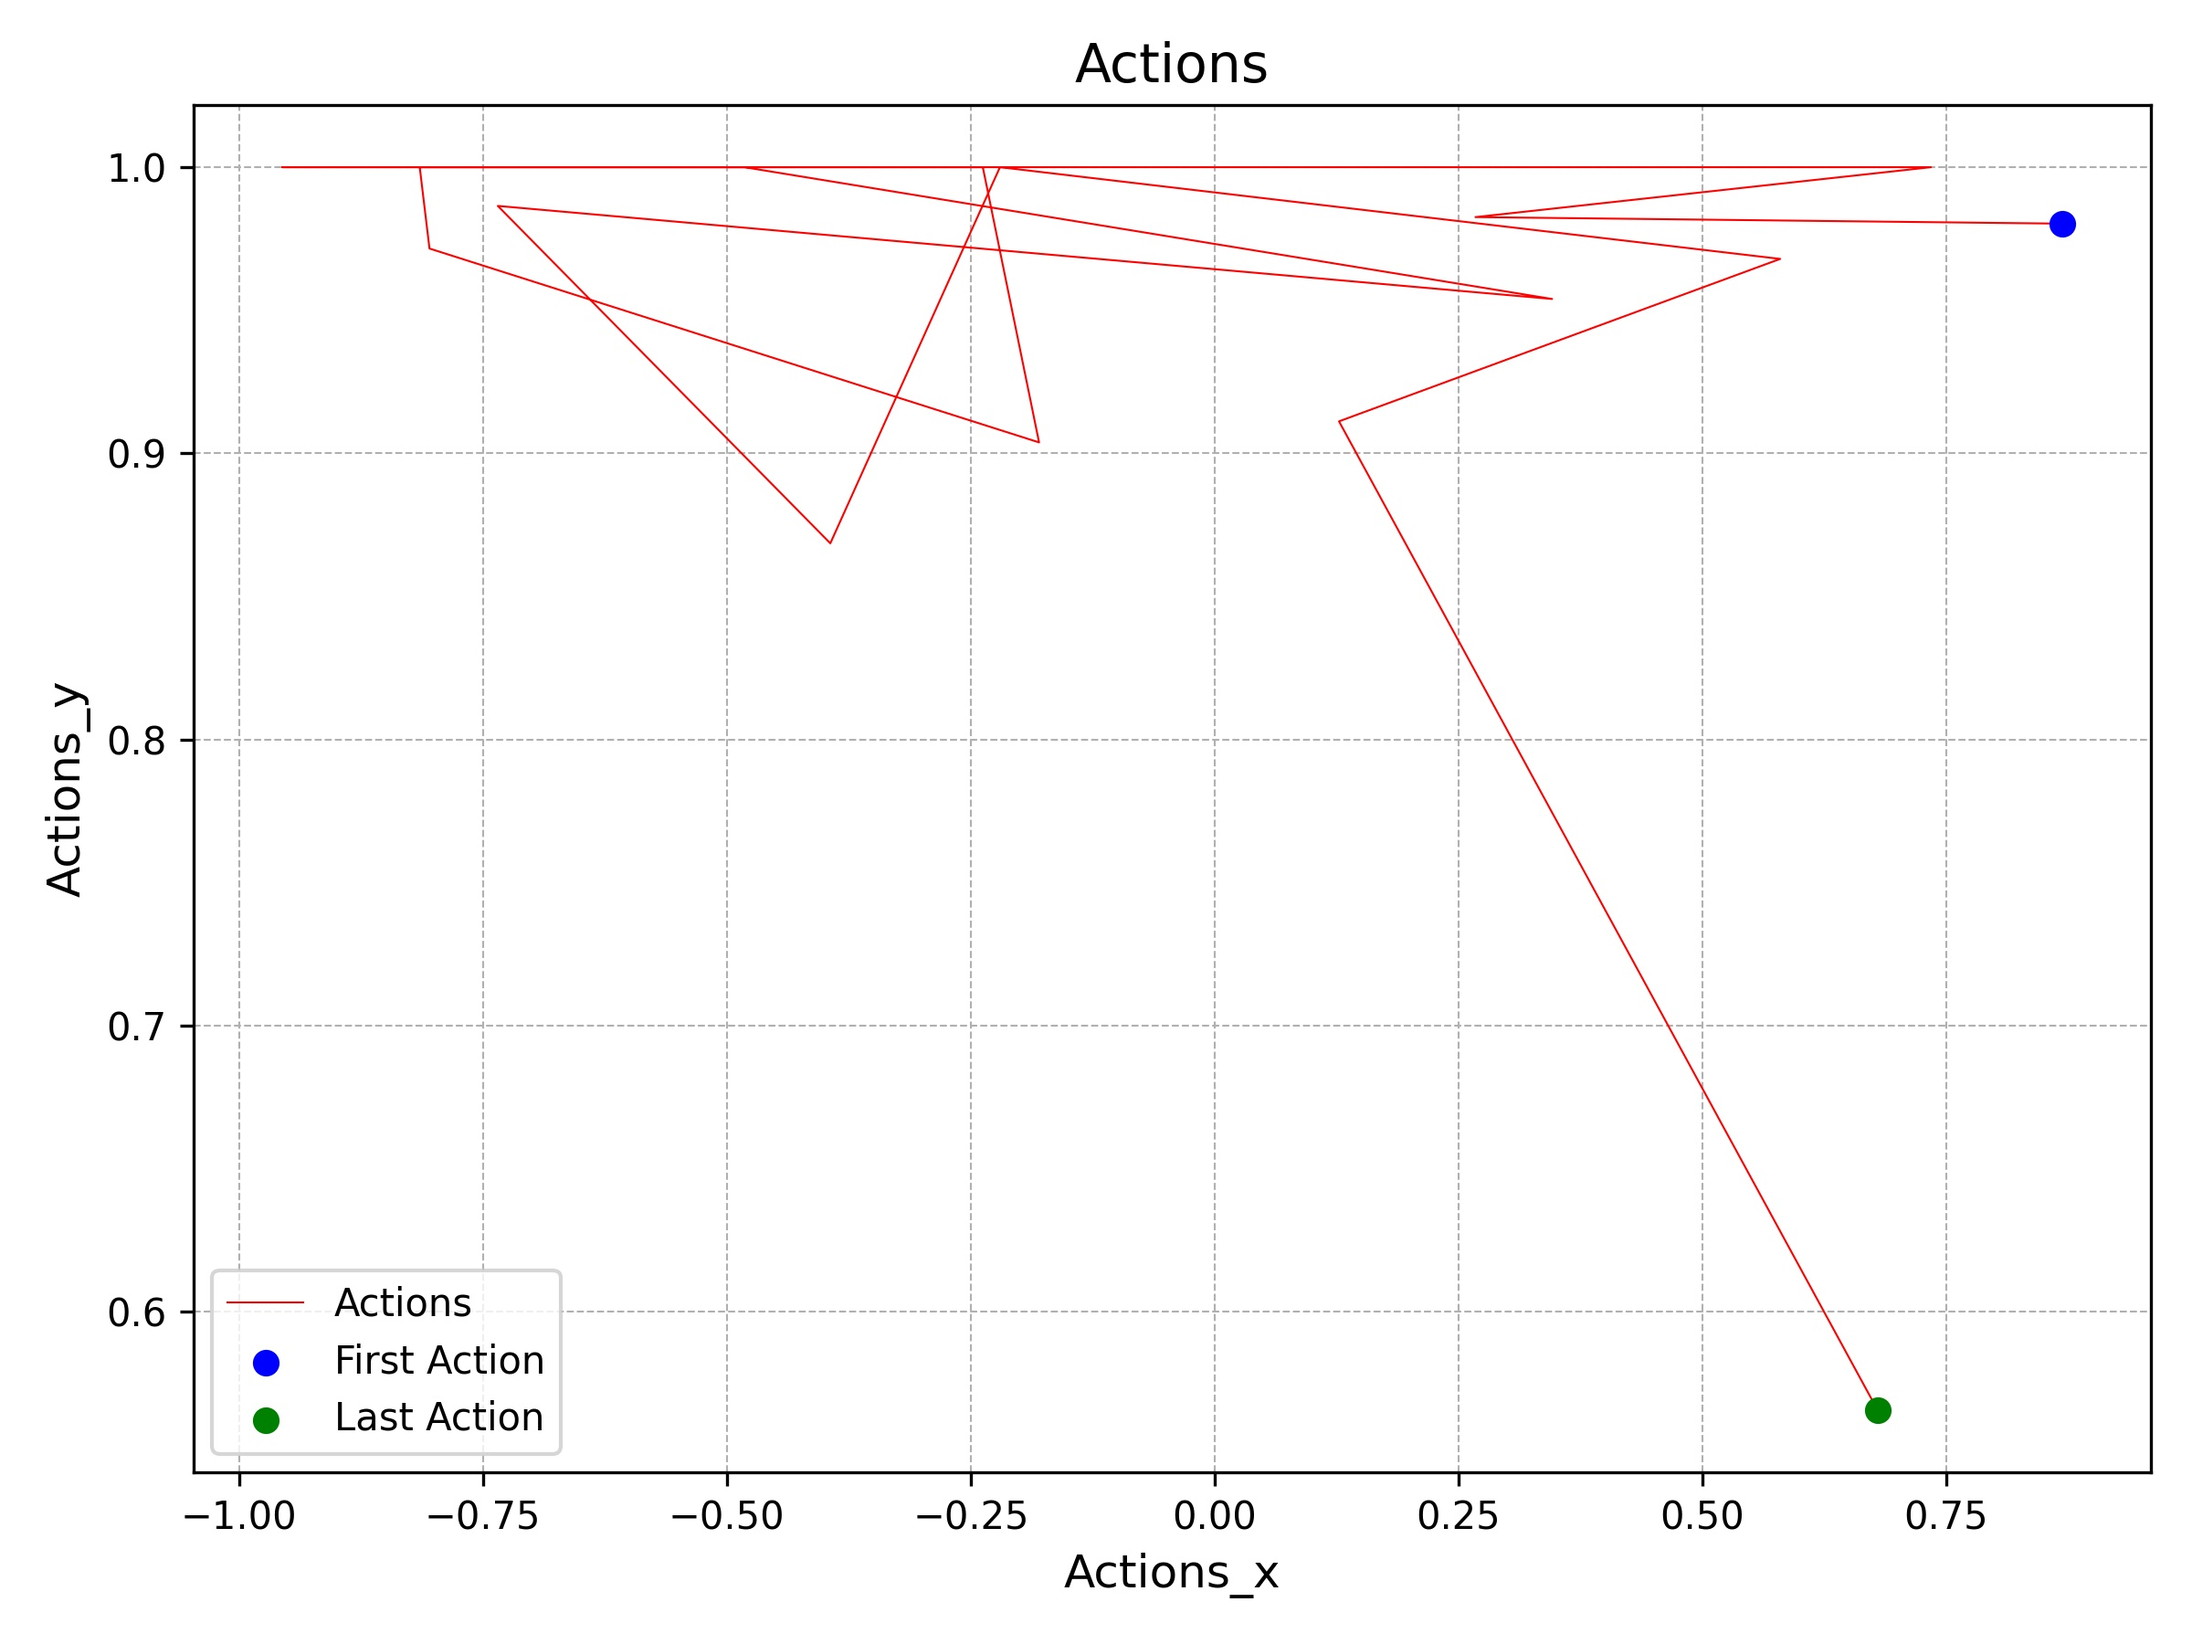
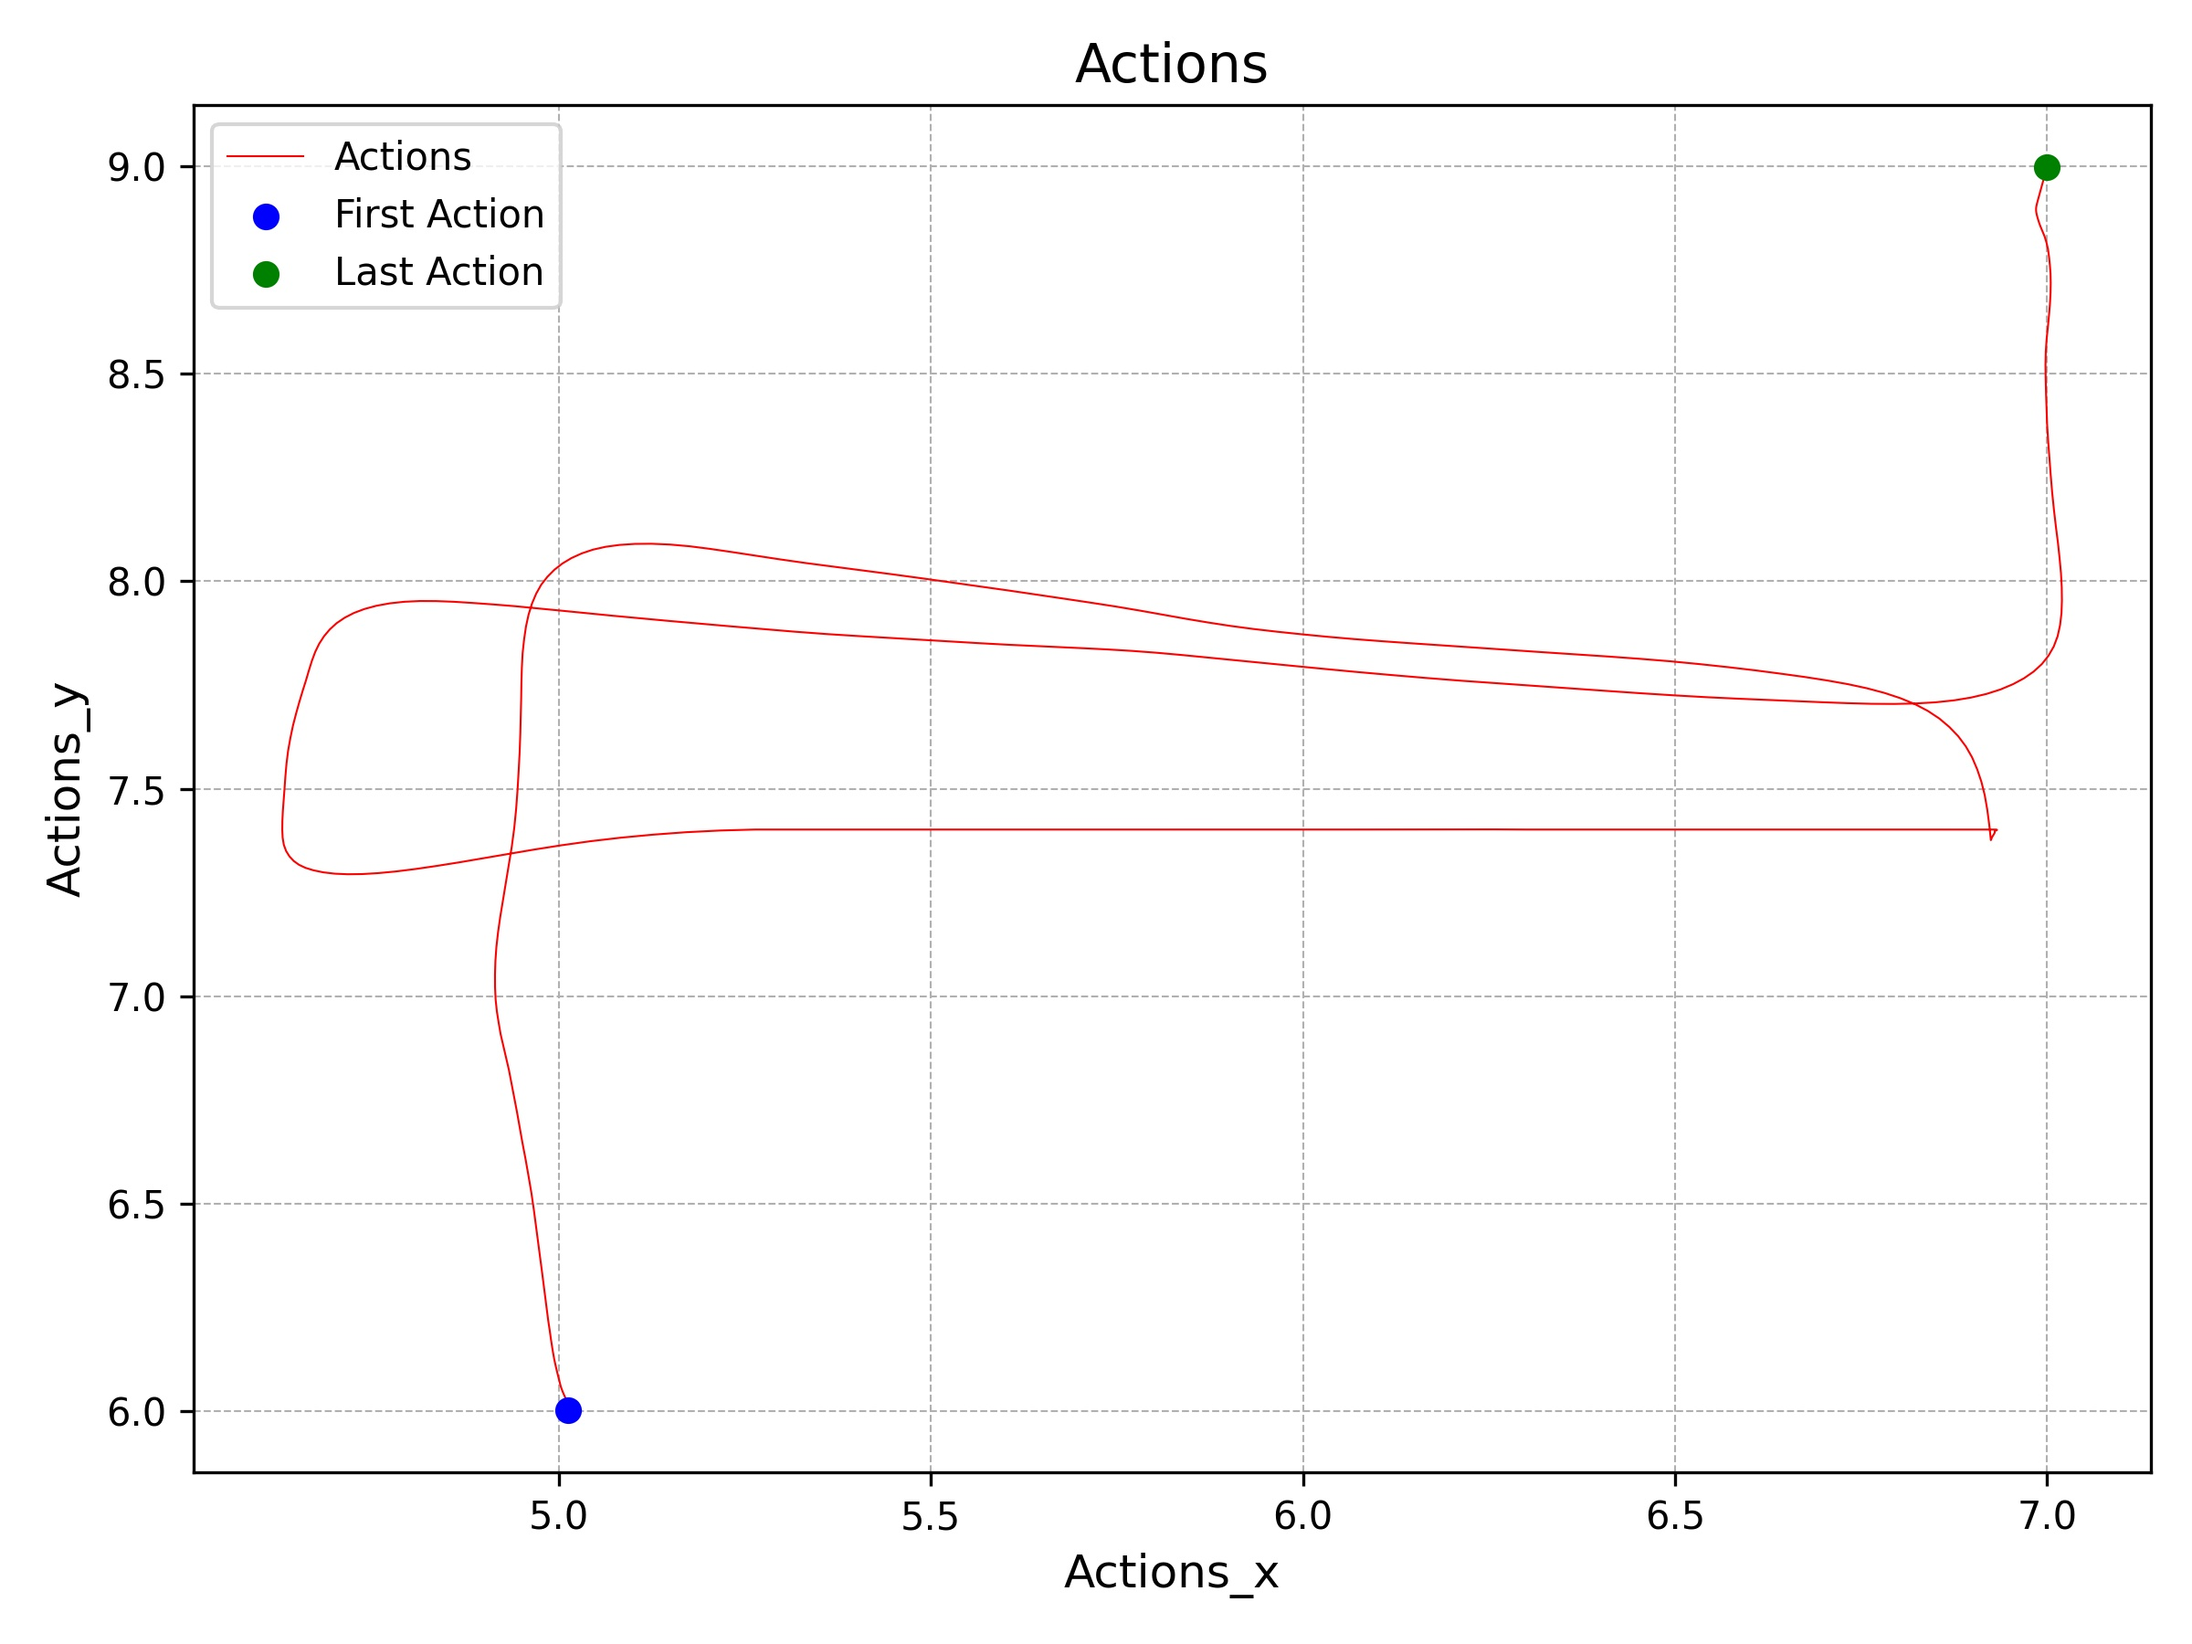
Changes for plotting observations instead of actions, also plotting the velocities of each state.

diff --git a/scripts/plan_maze2d.py b/scripts/plan_maze2d.py
@@ -49,6 +49,7 @@ cond = {
 ## observations for rendering
 rollout = [observation.copy()]
 used_actions = []
+observations = []
 total_reward = 0
 for t in range(env.max_episode_steps):
 
@@ -60,7 +61,7 @@ for t in range(env.max_episode_steps):
         cond[0] = observation
         action, samples = policy(cond, batch_size=args.batch_size) # Process defined actions/policy actions
         actions = samples.actions[0]
-        sequence = samples.observations[0]
+        sequence = samples.observations[0] # 384 elements
     # pdb.set_trace()
 
     # ####
@@ -100,17 +101,17 @@ for t in range(env.max_episode_steps):
     used_actions.append(action)
     total_reward += reward
     score = env.get_normalized_score(total_reward)
-    print(
-        f't: {t} | r: {reward:.2f} |  R: {total_reward:.2f} | score: {score:.4f} | '
-        f'{action}'
-    )
+    # print(
+    #     f't: {t} | r: {reward:.2f} |  R: {total_reward:.2f} | score: {score:.4f} | '
+    #     f'{action}'
+    # )
 
-    if 'maze2d' in args.dataset:
-        xy = next_observation[:2]
-        goal = env.unwrapped._target
-        print(
-            f'maze | pos: {xy} | goal: {goal}'
-        )
+    # if 'maze2d' in args.dataset:
+    #     xy = next_observation[:2]
+    #     goal = env.unwrapped._target
+    #     print(
+    #         f'maze | pos: {xy} | goal: {goal}'
+    #     )
 
     ## update rollout observations
     rollout.append(next_observation.copy())
@@ -126,7 +127,7 @@ for t in range(env.max_episode_steps):
 
         ## save rollout thus far
         # renderer.composite(join(args.savepath, 'rollout.png'), np.array(rollout)[None], ncol=1)
-        renderer.composite(join(args.savepath, 'rollout_' + str(t) + '.png'), np.array(rollout)[None], ncol=1) # Makes the complete path(old rollout.png) now be the rollout_ + final t value + .png
+        # renderer.composite(join(args.savepath, 'rollout_' + str(t) + '.png'), np.array(rollout)[None], ncol=1) # Makes the complete path(old rollout.png) now be the rollout_ + final t value + .png
 
         # renderer.render_rollout(join(args.savepath, f'rollout.mp4'), rollout, fps=80)
 
@@ -136,26 +137,43 @@ for t in range(env.max_episode_steps):
         break
 
     observation = next_observation
+    observations.append(observation)
+# Length of used actions = 800.
 
 # logger.finish(t, env.max_episode_steps, score=score, value=0)
 
-def plot_actions_vs_actions(actions_to_plot, max_timesteps=400):
-    actions_to_plot = actions_to_plot[:max_timesteps]
-    actions_x = [point[0] for point in actions_to_plot]
-    actions_y = [point[1] for point in actions_to_plot]
+def plot_observation_points(observations_to_plot):
+    observation_x = [point[0] for point in observations_to_plot]
+    observation_y = [point[1] for point in observations_to_plot]
     plt.figure(figsize=(8, 6))
-    plt.plot(actions_x, actions_y, label="Actions", color='red', linewidth=0.5)
+    plt.plot(observation_x, observation_y, label="Observations", color='red', linewidth=1)
     # Mark the first and last actions with points
-    plt.scatter(actions_x[0], actions_y[0], color='blue', label='First Action', zorder=5)
-    plt.scatter(actions_x[-1], actions_y[-1], color='green', label='Last Action', zorder=5)
+    plt.scatter(observation_x[0], observation_y[0], color='blue', label='Starting point', zorder=5)
+    plt.scatter(observation_x[-1], observation_y[-1], color='green', label='Target point', zorder=5)
     plt.grid(True, which='both', linestyle='--', linewidth=0.5)
-    plt.title('Actions', fontsize=14)
-    plt.xlabel('Actions_x', fontsize=12)
-    plt.ylabel('Actions_y', fontsize=12)
+    plt.title('Observation points', fontsize=14)
+    plt.xlabel('Observations_x', fontsize=12)
+    plt.ylabel('Observations_y', fontsize=12)
     plt.legend()
     plt.tight_layout()
-    plt.savefig("plotted_actions_vs_actions.jpeg", format='jpeg', dpi=300)
-    plt.show()
+    plt.savefig("plotted_observation_points.jpeg", format='jpeg', dpi=300)
+
+def plot_observation_vels(observations_to_plot):
+    observation_x = [point[2] for point in observations_to_plot]
+    observation_y = [point[3] for point in observations_to_plot]
+    plt.figure(figsize=(8, 6))
+    plt.plot(observation_x, observation_y, label="Observations", color='red', linewidth=1)
+    # Mark the first and last actions with points
+    plt.scatter(observation_x[0], observation_y[0], color='blue', label='Starting point', zorder=5)
+    plt.scatter(observation_x[-1], observation_y[-1], color='green', label='Target point', zorder=5)
+    plt.grid(True, which='both', linestyle='--', linewidth=0.5)
+    plt.title('Observation velocities', fontsize=14)
+    plt.xlabel('Observations_x', fontsize=12)
+    plt.ylabel('Observations_y', fontsize=12)
+    plt.legend()
+    plt.tight_layout()
+    plt.savefig("plotted_observation_vels.jpeg", format='jpeg', dpi=300)
+
 
 def plot_actions_vs_time(actions_to_plot, max_timesteps=400):
     actions_to_plot = actions_to_plot[:max_timesteps]
@@ -227,12 +245,13 @@ def plot_actions_with_vectors(actions_to_plot, max_timesteps=400,window_size=10)
     plt.savefig("smoothed_vectorized_actions.jpeg", format='jpeg', dpi=300)
     plt.show()
 
-# plot_actions_vs_actions(used_actions)
+plot_observation_points(observations)
+plot_observation_vels(observations)
 # plot_actions_vs_time(used_actions)
-plot_actions_with_vectors(used_actions)
+# plot_actions_with_vectors(used_actions)
 
 ## save result as a json file
-json_path = join(args.savepath, 'rollout.json')
-json_data = {'score': score, 'step': t, 'return': total_reward, 'term': terminal,
-    'epoch_diffusion': diffusion_experiment.epoch}
-json.dump(json_data, open(json_path, 'w'), indent=2, sort_keys=True)
+# json_path = join(args.savepath, 'rollout.json')
+# json_data = {'score': score, 'step': t, 'return': total_reward, 'term': terminal,
+#     'epoch_diffusion': diffusion_experiment.epoch}
+# json.dump(json_data, open(json_path, 'w'), indent=2, sort_keys=True)

diff --git a/show_dataset.py b/show_dataset.py
@@ -8,14 +8,14 @@ dataset_name = "D4RL/pointmaze/large-v2"
 dataset = minari.load_dataset(dataset_name)
 
 sampled_episodes = dataset.sample_episodes(10) # Samples 10 random episodes
-observations = sampled_episodes[1].observations
+observations = sampled_episodes[5].observations
 
-achieved_goal = observations['achieved_goal']
+achieved_goal = observations['achieved_goal'] # 270 elements
 observation = observations['observation']
 desired_goal = observations['desired_goal']
 
 achieved_x = [point[0] for point in achieved_goal]
-achieved_y = [point[1] for point in achieved_goal]
+achieved_y = [point[1] for point in achieved_goal] # 491
 
 desired_x = [point[0] for point in desired_goal]
 desired_y = [point[1] for point in desired_goal]
@@ -26,14 +26,14 @@ observation_y = [point[1] for point in observation]
 #-----------------------------------------------------------------------------------------------
 #---------------------------------- Achieved goal vs desired goal ------------------------------
 #-----------------------------------------------------------------------------------------------
-plt.figure(figsize=(8, 6))  # Set figure size for better visibility
-plt.plot(achieved_x, achieved_y, marker='o', linestyle='-',linewidth=3,alpha=0.7, color='b', label='Achieved Goal')
-plt.plot(desired_x, desired_y, marker='s', linestyle='--', color='r', label='Desired Goal')
-# plt.plot(observation_x, observation_y, marker='*', linestyle="-.",linewidth=1,alpha=0.7, color='g',label='Observation')
-plt.title("Achieved vs Desired Goals")
-plt.xlabel("X-axis")
-plt.ylabel("Y-axis")
-plt.grid(True, linestyle='--', alpha=0.7)
-plt.legend()
-plt.savefig("dataset_plotted.jpeg", format='jpeg', dpi=300)
-plt.show()
+# plt.figure(figsize=(8, 6))  # Set figure size for better visibility
+# plt.plot(achieved_x, achieved_y, marker='o', linestyle='-',linewidth=3,alpha=0.7, color='b', label='Achieved Goal')
+# plt.plot(desired_x, desired_y, marker='s', linestyle='--', color='r', label='Desired Goal')
+# # plt.plot(observation_x, observation_y, marker='*', linestyle="-.",linewidth=1,alpha=0.7, color='g',label='Observation')
+# plt.title("Achieved vs Desired Goals")
+# plt.xlabel("X-axis")
+# plt.ylabel("Y-axis")
+# plt.grid(True, linestyle='--', alpha=0.7)
+# plt.legend()
+# plt.savefig("dataset_plotted.jpeg", format='jpeg', dpi=300)
+# plt.show()

diff --git a/config/maze2d.py b/config/maze2d.py
@@ -101,12 +101,12 @@ base = {
 
 #------------------------ overrides ------------------------#
 
-'''
-    maze2d maze episode steps:
-        umaze: 150
-        medium: 250
-        large: 600
-'''
+# '''
+#     maze2d maze episode steps:
+#         umaze: 150
+#         medium: 250
+#         large: 600
+# '''
 
 maze2d_umaze_v1 = {
     'diffusion': {
